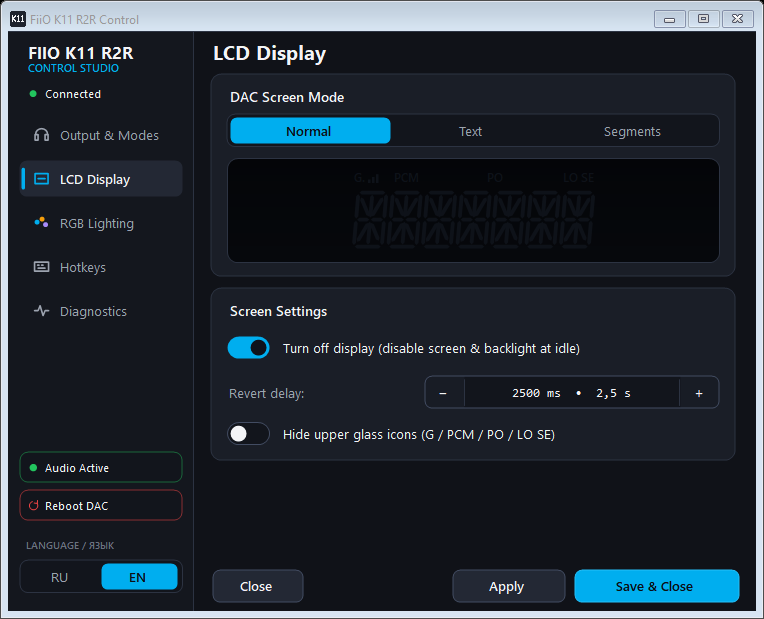
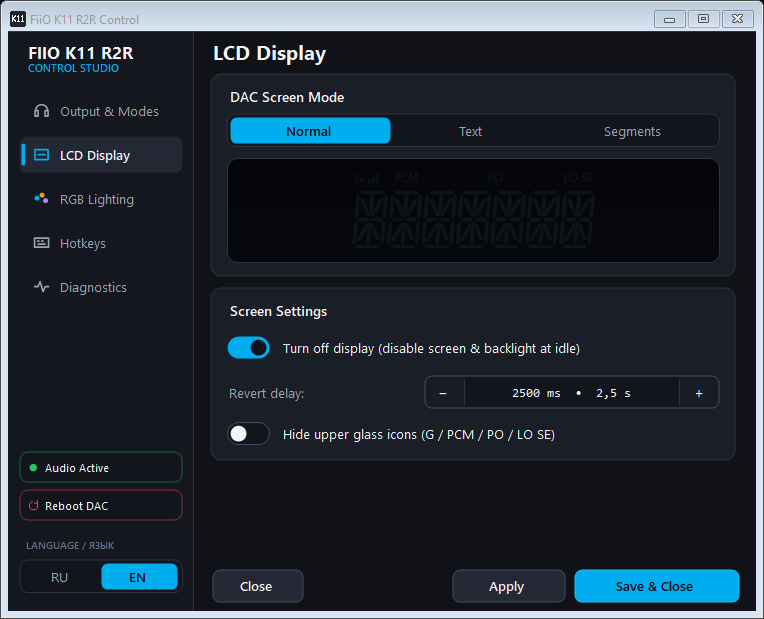
Remove redundant top status row and surface DAC Offline state cleanly

Changed region(s): [[0.0301, 0.1228, 0.2107, 0.5218]]

diff --git a/tray/K11Control.Tests/Program.cs b/tray/K11Control.Tests/Program.cs
@@ -637,19 +637,26 @@ using (var form = new K11Control.UI.SettingsForm(
     Assert(applyBtn.Text == "Применить" && borderProp.GetValue(applyBtn) is null && IsBannerShown(),
         $"Switching to another settings page clears transient Apply feedback while keeping sidebar balance alert visible (got '{applyBtn.Text}')");
 
-    // Verify new left sidebar hierarchy & rounded HotkeyCaptureBox wrapping
-    var badge = (Control)typeof(K11Control.UI.SettingsForm).GetField("_connectionBadge", flags)!.GetValue(form)!;
+    // Verify clean sidebar nav layout, equal bottom action button heights, offline label, & rounded HotkeyCaptureBox wrapping
     var muteBtn = (Control)typeof(K11Control.UI.SettingsForm).GetField("_muteBtn", flags)!.GetValue(form)!;
     var rebootBtn = (Control)typeof(K11Control.UI.SettingsForm).GetField("_rebootBtn", flags)!.GetValue(form)!;
     var navList = (System.Collections.IList)typeof(K11Control.UI.SettingsForm).GetField("_navButtons", flags)!.GetValue(form)!;
     var firstNav = (Control)navList[0]!;
     var hkBox = (K11Control.UI.HotkeyCaptureBox)typeof(K11Control.UI.SettingsForm).GetField("_hkToggleOut", flags)!.GetValue(form)!;
 
-    Assert(badge.Bottom < firstNav.Top && muteBtn.Top > balanceCard.Bottom && muteBtn.Height == rebootBtn.Height,
-        $"Sidebar hierarchy places passive status above nav ({badge.Bottom} < {firstNav.Top}) and equal-height bottom buttons ({muteBtn.Height} == {rebootBtn.Height})");
+    Assert(firstNav.Top == 60 && muteBtn.Top > balanceCard.Bottom && muteBtn.Height == rebootBtn.Height,
+        $"Sidebar starts nav at y=60 ({firstNav.Top}) with equal-height bottom buttons ({muteBtn.Height} == {rebootBtn.Height})");
 
     typeof(Control).GetMethod("OnClick", flags)!.Invoke(muteBtn, [EventArgs.Empty]);
-    Assert(muteCalls == 1, $"Clicking standalone sidebar Mute button invokes toggle callback (calls={muteCalls})");
+    Assert(muteCalls == 1 && muteBtn.Text == "Звук включён",
+        $"Clicking standalone sidebar Mute button invokes toggle callback when online (calls={muteCalls}, text='{muteBtn.Text}')");
+
+    form.SetDeviceStatus(false, false, null);
+    Assert(!muteBtn.Enabled && muteBtn.Text == "ЦАП отключён",
+        $"Disconnected DAC disables Mute button and labels it '{muteBtn.Text}'");
+    form.ApplyLanguage(AppLanguage.En);
+    Assert(muteBtn.Text == "DAC Offline",
+        $"English offline label shows 'DAC Offline' (got '{muteBtn.Text}')");
     Assert(hkBox.BorderStyle == System.Windows.Forms.BorderStyle.None && hkBox.Parent is { Width: 164, Height: 25 },
         $"HotkeyCaptureBox renders borderless inside rounded wrapper panel ({hkBox.Parent?.Size})");
 }

diff --git a/tray/K11Control/UI/CustomControls.cs b/tray/K11Control/UI/CustomControls.cs
@@ -1438,48 +1438,6 @@ internal sealed class ModernDelayStepper : Control
     }
 }
 
-internal sealed class SidebarConnectionBadge : Control
-{
-    private bool _connected;
-    private AppLanguage _language = AppLanguage.Ru;
-
-    public SidebarConnectionBadge()
-    {
-        SetStyle(ControlStyles.AllPaintingInWmPaint | ControlStyles.OptimizedDoubleBuffer | ControlStyles.UserPaint | ControlStyles.ResizeRedraw, true);
-        Cursor = Cursors.Default;
-        Size = new Size(164, 24);
-    }
-
-    public void UpdateState(bool connected, AppLanguage language)
-    {
-        if (_connected == connected && _language == language)
-            return;
-
-        _connected = connected;
-        _language = language;
-        Invalidate();
-    }
-
-    protected override void OnPaint(PaintEventArgs e)
-    {
-        var g = e.Graphics;
-        g.SmoothingMode = SmoothingMode.AntiAlias;
-        g.TextRenderingHint = TextRenderingHint.ClearTypeGridFit;
-        g.Clear(Theme.BgSidebar);
-
-        Color dotColor = _connected ? Theme.Success : Theme.TextMuted;
-        using (var b = new SolidBrush(dotColor))
-            g.FillEllipse(b, 10f, (Height - 7f) / 2f, 7f, 7f);
-
-        Color textColor = _connected ? Theme.TextPrimary : Theme.TextMuted;
-        string label = _connected ? AppStrings.StatusConnected(_language) : AppStrings.StatusDisconnected(_language);
-        TextRenderer.DrawText(g, label, Theme.FontSmall,
-            new Rectangle(23, 0, Width - 29, Height),
-            textColor,
-            TextFormatFlags.Left | TextFormatFlags.VerticalCenter | TextFormatFlags.EndEllipsis | TextFormatFlags.NoPrefix);
-    }
-}
-
 internal sealed class SidebarMuteButton : Control
 {
     private bool _connected;
@@ -1501,6 +1459,9 @@ internal sealed class SidebarMuteButton : Control
         _muted = muted;
         _language = language;
         Enabled = connected;
+        Text = !connected
+            ? AppStrings.StatusAudioUnknown(language)
+            : (muted ? AppStrings.StatusAudioMuted(language) : AppStrings.StatusAudioActive(language));
         if (!connected)
         {
             _hovered = false;

diff --git a/tray/K11Control/UI/SettingsForm.cs b/tray/K11Control/UI/SettingsForm.cs
@@ -35,7 +35,6 @@ public sealed class SettingsForm : Form
 
     private SegmentedToggle<AppLanguage> _langToggle = null!;
     private Label _pageTitleLabel = null!;
-    private SidebarConnectionBadge _connectionBadge = null!;
     private SidebarMuteButton _muteBtn = null!;
     private ModernButton _cancelBtn = null!;
     private ModernButton _applyBtn = null!;
@@ -254,7 +253,6 @@ public sealed class SettingsForm : Form
         _dacConnected = connected;
         _audioMuted = muted;
         _audioEndpoint = connected ? audioEndpoint : null;
-        _connectionBadge.UpdateState(connected, _config.Language);
         _muteBtn.UpdateState(connected, muted, _config.Language);
         _rebootBtn.Enabled = connected;
         UpdateChannelBalanceBanner();
@@ -318,12 +316,7 @@ public sealed class SettingsForm : Form
             AutoSize = true
         };
 
-        _connectionBadge = new SidebarConnectionBadge
-        {
-            Location = new Point(11, 50),
-            Size = new Size(164, 24)
-        };
-        sidebar.Controls.AddRange([brandTitle, brandSub, _connectionBadge]);
+        sidebar.Controls.AddRange([brandTitle, brandSub]);
 
         NavIconKind[] icons =
         [
@@ -340,7 +333,7 @@ public sealed class SettingsForm : Form
             var btn = new SidebarNavButton
             {
                 IconKind = icons[i],
-                Location = new Point(11, 84 + i * 44),
+                Location = new Point(11, 60 + i * 44),
                 Size = new Size(164, 38)
             };
             btn.Click += (_, _) => SelectPage(idx);

diff --git a/tray/K11Control/UI/AppStrings.cs b/tray/K11Control/UI/AppStrings.cs
@@ -22,11 +22,9 @@ internal static class AppStrings
         _ => NavDiag(l)
     };
 
-    public static string StatusConnected(AppLanguage l) => Tr(l, "Подключён", "Connected");
-    public static string StatusDisconnected(AppLanguage l) => Tr(l, "Отключён", "Disconnected");
     public static string StatusAudioMuted(AppLanguage l) => Tr(l, "Звук выключен", "Audio Muted");
     public static string StatusAudioActive(AppLanguage l) => Tr(l, "Звук включён", "Audio Active");
-    public static string StatusAudioUnknown(AppLanguage l) => Tr(l, "Звук: нет данных", "Audio: Offline");
+    public static string StatusAudioUnknown(AppLanguage l) => Tr(l, "ЦАП отключён", "DAC Offline");
     public static string BtnClose(AppLanguage l) => Tr(l, "Закрыть", "Close");
     public static string BtnApply(AppLanguage l) => Tr(l, "Применить", "Apply");
     public static string BtnApplyDone(AppLanguage l) => Tr(l, "Применено ✓", "Applied ✓");
